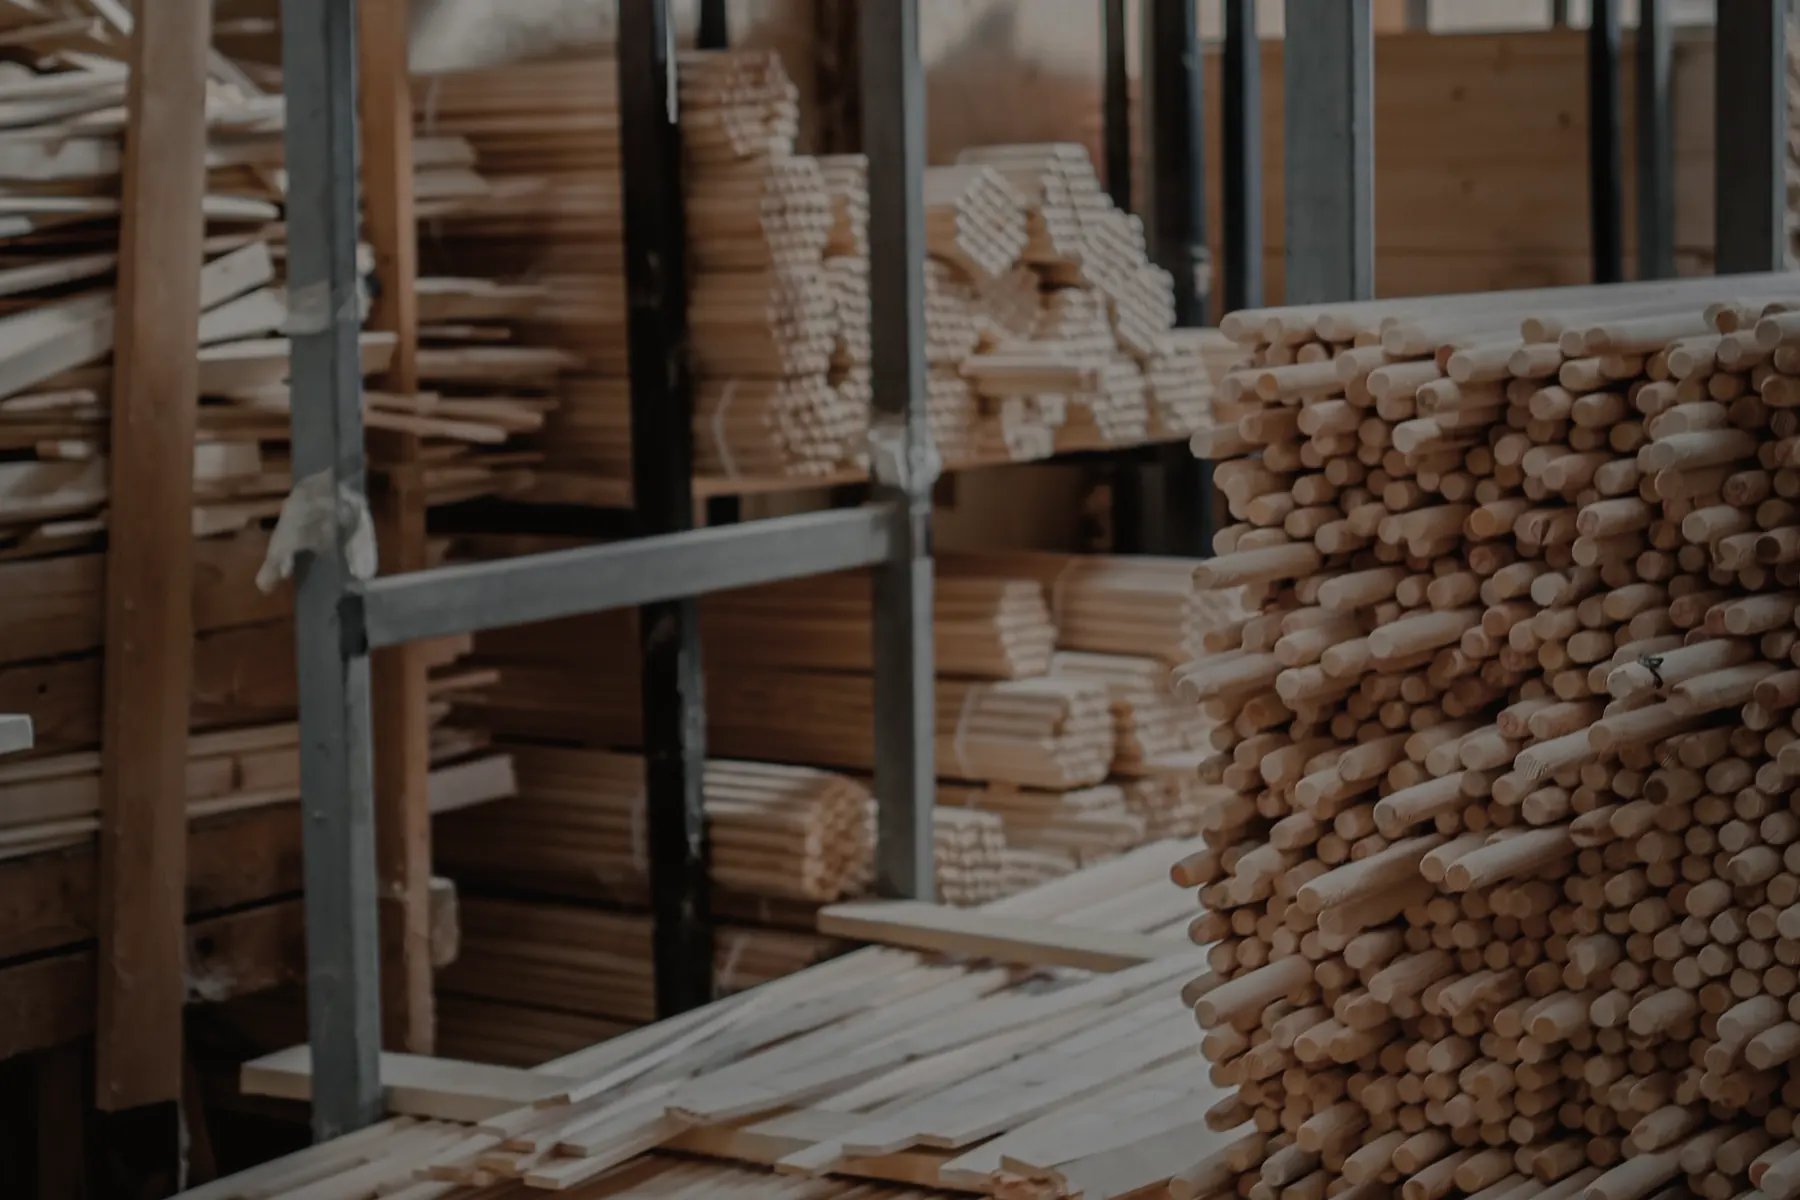
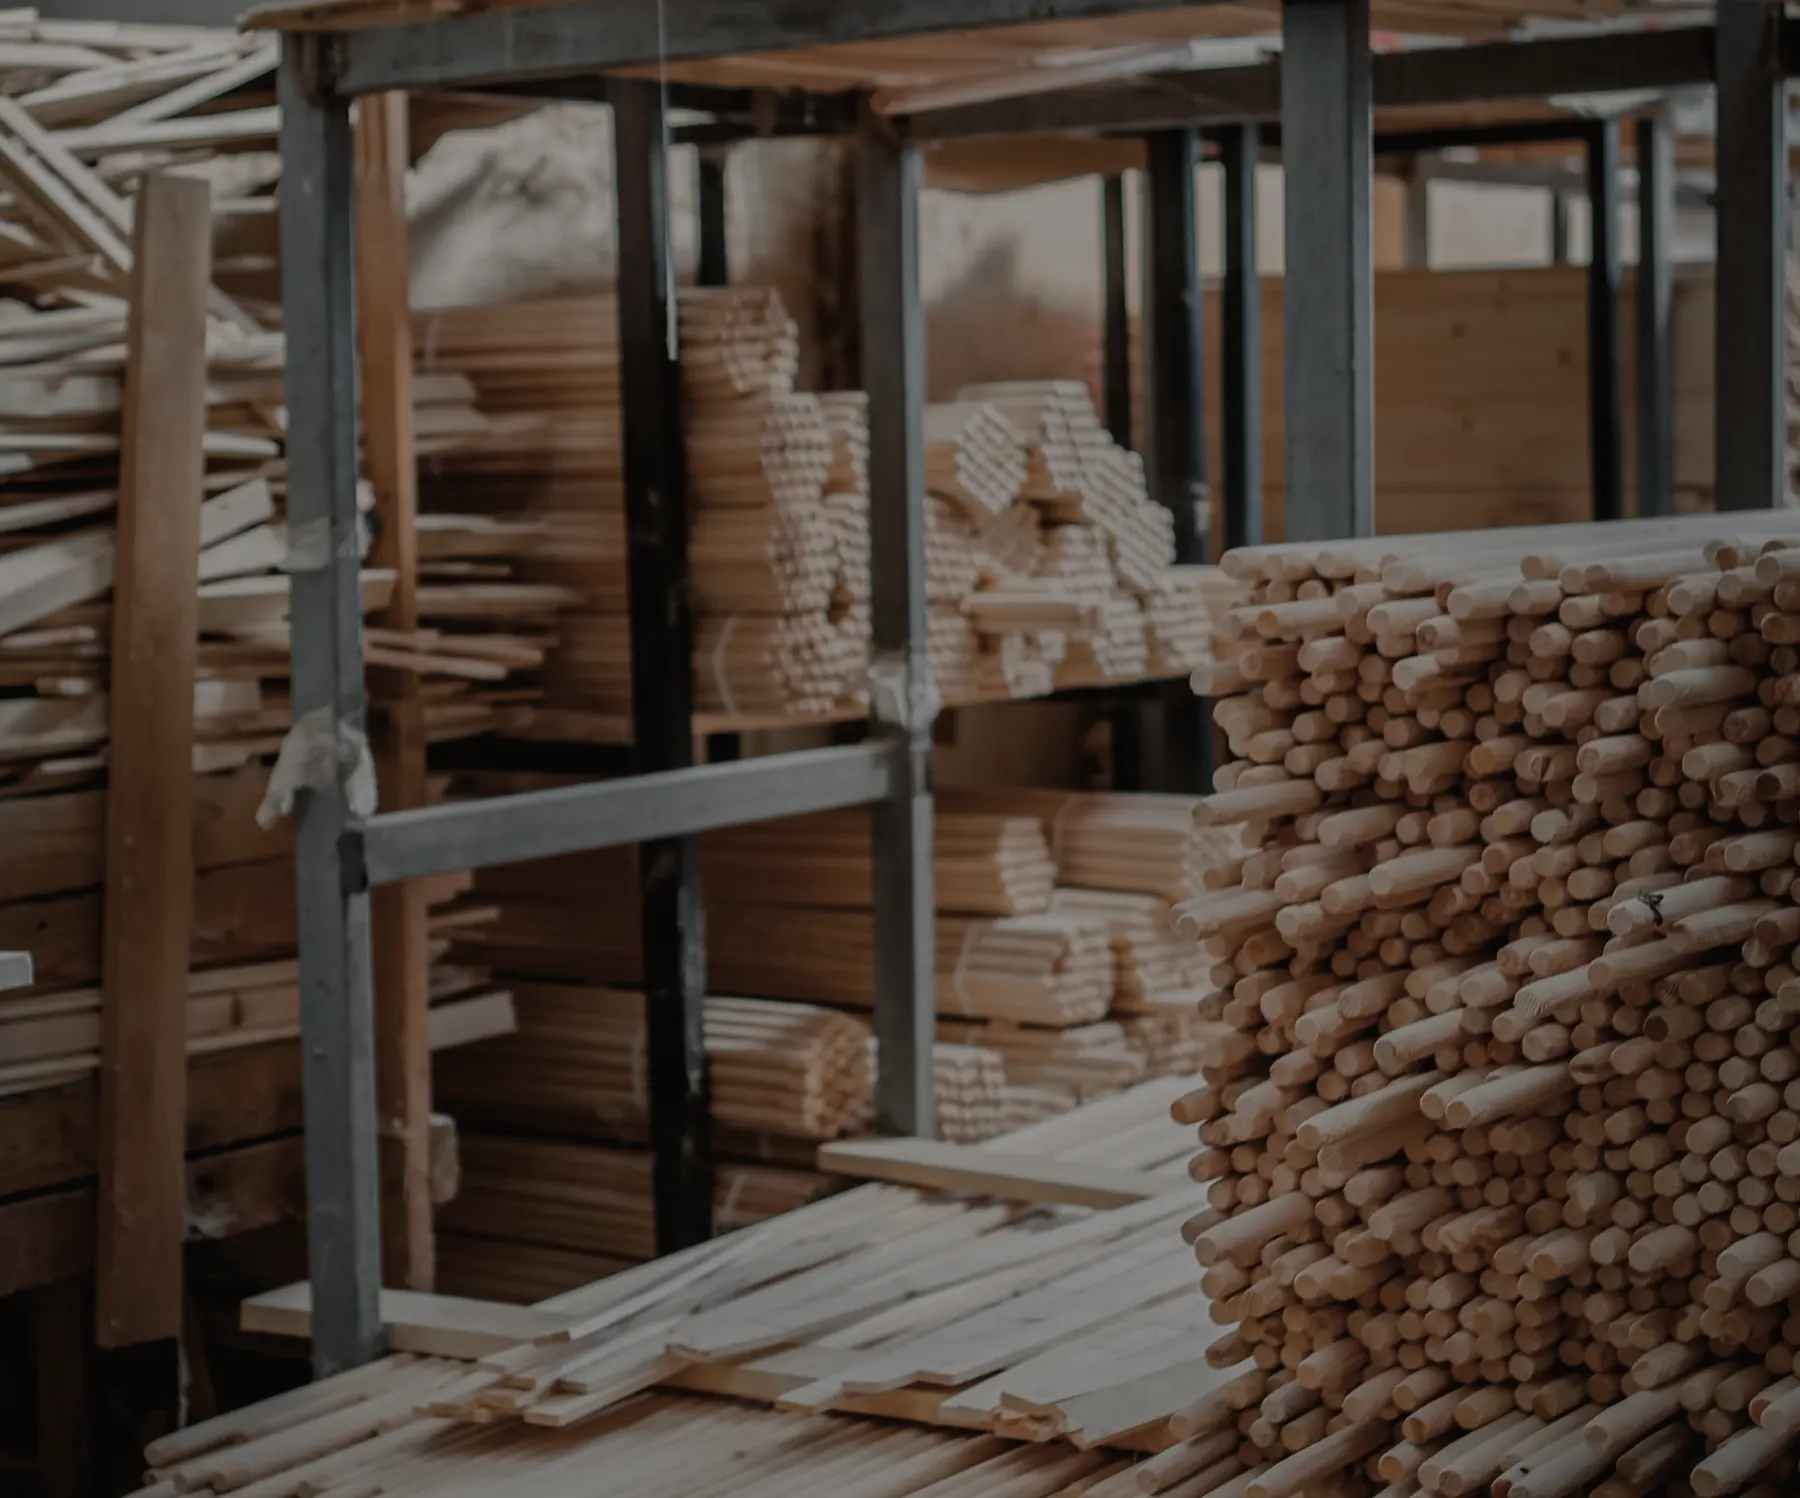
fix: montrer le contenu des photos plutot que leur centre
Chaque photo etait recadree deux fois : une fois dans le fichier au build,
une seconde par object-fit sur une bande plus large que le fichier. La
seconde rognait jusqu'a la moitie du cadre sans que rien ne le signale.

Le cadre prend desormais le rapport du fichier, les recadrages de build sont
elargis (jusqu'a 58 % de la source contre 38 %), et les photos passent en
demi-cellule pour qu'un champ plus large ne donne pas une image geante.
L'accueil est reordonne pour ne plus enchainer deux bandes photographiques.

diff --git a/app/page.tsx b/app/page.tsx
@@ -15,6 +15,10 @@ const X_FAMILLES = [0.33, 0.83, 0.17, 0.5, 0.83]
 const X_ETAPES = [0.17, 0.5, 0.83, 0.17, 0.5]
 const X_FOURNITURES = [0.17, 0.5, 0.83, 0.17, 0.5, 0.83]
 
+const PLEINE_LARGEUR =
+  '(min-width: 1264px) 1198px, (min-width: 768px) calc(100vw - 66px), calc(100vw - 34px)'
+const DEMI = '(min-width: 1264px) 599px, (min-width: 768px) calc(50vw - 33px), calc(100vw - 34px)'
+
 export const metadata: Metadata = {
   title: 'Bois de Bout — menuiserie et agencement sur mesure',
   description:
@@ -139,21 +143,21 @@ export default function Accueil() {
         <Feuille>
           <EnScene>
             <Panneau numero="PL-03" titre="Report du tracé">
-              <Photo
-                fiche={PHOTOS.leTrace}
-                hauteur="clamp(220px, 40vw, 440px)"
-                sizes="(min-width: 1264px) 1198px, (min-width: 768px) calc(100vw - 66px), calc(100vw - 34px)"
-              />
-              <Calepinage className="md:grid-cols-[1fr_auto]">
-                <Piece x={0.3}>
+              <Calepinage className="md:grid-cols-2">
+                <Piece x={0.25} className="md:flex md:flex-col md:justify-center">
                   <p className="lisible text-[15px] leading-relaxed text-muted">
                     Le tracé grandeur nature reporté sur le panneau. Ce que le plan a fixé en
                     millimètres, le gabarit le rend palpable — et c’est là, pas plus tard, qu’on
                     voit qu’une courbe passe mal ou qu’un jeu manque.
                   </p>
+                  <p className="mt-4 text-[15px] leading-relaxed text-muted">
+                    Les pointes plantées le long du trait tiennent le gabarit pendant qu’on le
+                    suit à la défonceuse. Elles se retirent, le trait reste.
+                  </p>
+                  <Cote className="mt-6" valeur="échelle 1:1" />
                 </Piece>
-                <Piece x={0.85} fond className="md:min-w-[220px]">
-                  <Cote valeur="échelle 1:1" />
+                <Piece x={0.75} fond className="!p-0">
+                  <Photo fiche={PHOTOS.leTrace} className="border-0" sizes={DEMI} />
                 </Piece>
               </Calepinage>
             </Panneau>
@@ -182,7 +186,7 @@ export default function Accueil() {
                     key={etape.numero}
                     x={X_ETAPES[index]}
                     travaillee
-                    className={index === 4 ? 'xl:col-span-2' : ''}
+                    className={index === 4 ? 'xl:col-span-3' : ''}
                   >
                     <div className="flex items-baseline gap-3">
                       <span className="font-titre text-[26px] leading-none text-chene">
@@ -196,58 +200,30 @@ export default function Accueil() {
                     </p>
                   </Piece>
                 ))}
-                {/* Place explicitement en troisieme colonne pour que l'ordre de
-                    lecture reste 01 a 05, la photo apres. */}
-                <Piece
-                  x={0.85}
-                  fond
-                  className="!p-0 xl:col-start-3 xl:row-start-1 xl:row-span-2"
-                >
-                  <Photo
-                    fiche={PHOTOS.laSurface}
-                    hauteur="100%"
-                    className="h-full min-h-[220px] border-0"
-                    sizes="(min-width: 1264px) 399px, (min-width: 768px) calc(50vw - 33px), calc(100vw - 34px)"
-                  />
-                </Piece>
               </Calepinage>
-            </Panneau>
-          </EnScene>
-        </Feuille>
-      </section>
-
-      {/* ------------------------------------------------- PL-05 le débit */}
-      <section className="mt-[var(--section-y)]">
-        <Feuille>
-          <EnScene>
-            <Panneau numero="PL-05" titre="Débit dans le panneau">
+              <Photo fiche={PHOTOS.laSurface} sizes={PLEINE_LARGEUR} />
               <Calepinage className="md:grid-cols-[auto_1fr]">
                 <Piece x={0.15} fond className="md:min-w-[240px]">
-                  <Cote valeur="perte 6,4 %" />
+                  <Cote valeur="temps 04" />
                 </Piece>
                 <Piece x={0.7}>
                   <p className="lisible text-[15px] leading-relaxed text-muted">
-                    Le calepinage décide de ce que coûte un panneau. Les pièces y sont rangées
-                    comme les blocs de cette page : jointives, de tailles inégales, orientées dans
-                    le sens du fil quand le fil compte.
+                    La finition, deux ans après. L’huile-cire se répare à l’endroit où elle est
+                    marquée ; un vernis, lui, se refait en entier. C’est ce qui décide de la
+                    finition d’un plan de travail, pas son aspect le jour de la pose.
                   </p>
                 </Piece>
               </Calepinage>
-              <Photo
-                fiche={PHOTOS.leDebit}
-                hauteur="clamp(220px, 40vw, 440px)"
-                sizes="(min-width: 1264px) 1198px, (min-width: 768px) calc(100vw - 66px), calc(100vw - 34px)"
-              />
             </Panneau>
           </EnScene>
         </Feuille>
       </section>
 
-      {/* ----------------------------------------------- PL-06 fournitures */}
+      {/* ----------------------------------------------- PL-05 fournitures */}
       <section className="mt-[var(--section-y)]">
         <Feuille>
           <EnScene>
-            <Coupe numero="PL-06" titre="Nomenclature de fournitures">
+            <Coupe numero="PL-05" titre="Nomenclature de fournitures">
               <Calepinage cote={1}>
                 <Piece x={0.25}>
                   <h2 className="titre titre-section">Ce qu’il y a dedans</h2>
@@ -275,6 +251,33 @@ export default function Accueil() {
                 ))}
               </Calepinage>
             </Coupe>
+          </EnScene>
+        </Feuille>
+      </section>
+
+      {/* ------------------------------------------------- PL-06 le débit */}
+      <section className="mt-[var(--section-y)]">
+        <Feuille>
+          <EnScene>
+            <Panneau numero="PL-06" titre="Débit dans le panneau">
+              <Calepinage className="md:grid-cols-2">
+                <Piece x={0.25} fond className="!p-0 md:order-2">
+                  <Photo fiche={PHOTOS.leDebit} className="border-0" sizes={DEMI} />
+                </Piece>
+                <Piece x={0.75} className="md:flex md:flex-col md:justify-center">
+                  <p className="lisible text-[15px] leading-relaxed text-muted">
+                    Le calepinage décide de ce que coûte un panneau. Les pièces y sont rangées
+                    comme les blocs de cette page : jointives, de tailles inégales, orientées dans
+                    le sens du fil quand le fil compte.
+                  </p>
+                  <p className="mt-4 text-[15px] leading-relaxed text-muted">
+                    Ce qui sort du panneau ne revient pas dedans : une chute de 40 mm ne fait ni
+                    une tablette ni un chant. La perte se décide au plan, pas à la machine.
+                  </p>
+                  <Cote className="mt-6" valeur="perte 6,4 %" />
+                </Piece>
+              </Calepinage>
+            </Panneau>
           </EnScene>
         </Feuille>
       </section>

diff --git a/app/essences/page.tsx b/app/essences/page.tsx
@@ -22,7 +22,7 @@ export default function Essences() {
         <Feuille>
           <Panneau numero="PL-20" titre="Feuille d’échantillons">
             <Calepinage className="lg:grid-cols-[1fr_1fr]">
-              <Piece className="!py-9 md:!py-14" x={0.25}>
+              <Piece className="!py-9 md:!py-14 md:flex md:flex-col md:justify-center" x={0.25}>
                 <p className="surtitre">Planche 20</p>
                 <h1 className="titre titre-plan mt-4">Essences</h1>
                 <p className="lisible mt-5 text-[16px] leading-relaxed text-muted md:text-[18px]">
@@ -34,7 +34,6 @@ export default function Essences() {
               <Piece x={0.75} fond className="!p-0">
                 <Photo
                   fiche={PHOTOS.avivesEmpiles}
-                  hauteur="clamp(220px, 34vw, 420px)"
                   className="border-0"
                   sizes="(min-width: 1264px) 599px, (min-width: 1024px) 50vw, (min-width: 768px) calc(100vw - 66px), calc(100vw - 34px)"
                 />
@@ -142,21 +141,24 @@ export default function Essences() {
         <Feuille>
           <EnScene>
             <Panneau numero="PL-23" titre="Stock">
-              <Calepinage className="md:grid-cols-[auto_1fr]">
-                <Piece x={0.15} fond className="md:min-w-[240px]">
+              <Calepinage className="md:grid-cols-2">
+                <Piece x={0.25} className="md:flex md:flex-col md:justify-center">
                   <Cote valeur="stock atelier" />
-                  <p className="mt-4 text-[14px] leading-relaxed text-muted">
+                  <p className="mt-5 text-[15px] leading-relaxed text-muted">
                     Tourillons, tasseaux et avivés sèchent à l’atelier avant d’être débités. Un
                     bois qui arrive le matin et passe à la machine l’après-midi travaille ensuite
-                    dans l’ouvrage.
+                    dans l’ouvrage : il faut qu’il ait fini de bouger avant, pas après.
+                  </p>
+                  <p className="mt-4 text-[15px] leading-relaxed text-muted">
+                    Le stock est rangé par essence et par épaisseur, sur chant, avec des baguettes
+                    entre les lits pour que l’air passe.
                   </p>
                 </Piece>
-                <Piece x={0.7} fond className="!p-0">
+                <Piece x={0.75} fond className="!p-0">
                   <Photo
                     fiche={PHOTOS.stockDebite}
-                    hauteur="clamp(220px, 36vw, 420px)"
                     className="border-0"
-                    sizes="(min-width: 1264px) 958px, (min-width: 768px) calc(100vw - 306px), calc(100vw - 34px)"
+                    sizes="(min-width: 1264px) 599px, (min-width: 768px) calc(50vw - 33px), calc(100vw - 34px)"
                   />
                 </Piece>
               </Calepinage>

diff --git a/components/Photo.tsx b/components/Photo.tsx
@@ -5,22 +5,26 @@ import type { Photo as Fiche } from '@/lib/photos'
 // echouer tout bloc de texte dont la boite intersecte celle d'une photo. Une
 // photo n'a donc jamais de voile de protection ni de bande cuite — le
 // traitement de palette est deja dans le fichier.
+//
+// Le cadre prend le rapport du FICHIER : sans ca, `object-fit: cover` recadre
+// une seconde fois par-dessus le recadrage du build, et il en rogne jusqu'a la
+// moitie. Le sujet devient illisible sans que rien ne le signale.
 export default function Photo({
   fiche,
   sizes,
   priority = false,
-  hauteur,
   className = '',
 }: {
   fiche: Fiche
   sizes: string
   priority?: boolean
-  /** Hauteur de cadre en CSS ; l'image y est recadree par object-fit. */
-  hauteur: string
   className?: string
 }) {
   return (
-    <div className={`plaque-photo ${className}`} style={{ height: hauteur }}>
+    <div
+      className={`plaque-photo ${className}`}
+      style={{ aspectRatio: `${fiche.largeur} / ${fiche.hauteur}` }}
+    >
       <Image
         src={fiche.src}
         alt={fiche.alt}

diff --git a/lib/photos.ts b/lib/photos.ts
@@ -16,13 +16,13 @@ export const PHOTOS = {
   leTrace: {
     src: '/images/le-trace.webp',
     largeur: 3648,
-    hauteur: 2100,
+    hauteur: 3200,
     alt: 'Gabarits tracés au crayon sur des panneaux, des pointes de repérage plantées le long du tracé.',
   },
   leDebit: {
     src: '/images/le-debit.webp',
     largeur: 3648,
-    hauteur: 2050,
+    hauteur: 3000,
     alt: "Une pièce se dégage du panneau sous l'outil, la sciure de coupe reste le long du trait.",
   },
   laSurface: {
@@ -34,13 +34,13 @@ export const PHOTOS = {
   avivesEmpiles: {
     src: '/images/avives-empiles.webp',
     largeur: 3648,
-    hauteur: 2432,
+    hauteur: 3000,
     alt: 'Avivés empilés sur chant, nœuds et fil visibles sur les tranches rabotées.',
   },
   stockDebite: {
     src: '/images/stock-debite.webp',
     largeur: 3040,
-    hauteur: 2027,
+    hauteur: 2530,
     alt: 'Stock débité rangé sur rack : tourillons et tasseaux vus par le bout.',
   },
 } satisfies Record<string, Photo>

diff --git a/app/agencements/page.tsx b/app/agencements/page.tsx
@@ -56,11 +56,10 @@ export default function Agencements() {
             <Panneau numero="PL-10b" titre="Finition posée">
               <Photo
                 fiche={PHOTOS.laSurface}
-                hauteur="clamp(200px, 32vw, 360px)"
                 sizes="(min-width: 1264px) 1198px, (min-width: 768px) calc(100vw - 66px), calc(100vw - 34px)"
               />
               <Calepinage>
-                <Piece x={0.4}>
+                <Piece x={0.4} className="md:flex md:flex-col md:justify-center">
                   <p className="lisible text-[15px] leading-relaxed text-muted">
                     Un plan de travail en chêne massif de 40 mm, deux ans après la pose. La
                     finition huile-cire se répare à l’endroit où elle est marquée ; un vernis, lui,

diff --git a/CREDITS.md b/CREDITS.md
@@ -12,7 +12,7 @@ Chacune est recadree et retraitee au build ; le binaire distant n est jamais ser
 
 - source : https://www.pexels.com/photo/10126390/
 - fichier d origine : https://images.pexels.com/photos/10126390/pexels-photo-10126390.jpeg
-- recadrage : 3648x2100 a partir de (0, 2200)
+- recadrage : 3648x3200 a partir de (0, 1500)
 - sujet : Gabarits traces au crayon sur des panneaux, pointes de reperage plantees le long du trace.
 - Ecriture manuscrite verifiee au zoom : hors focale, illisible, aucun nom d'entreprise ni de client.
 
@@ -20,7 +20,7 @@ Chacune est recadree et retraitee au build ; le binaire distant n est jamais ser
 
 - source : https://www.pexels.com/photo/10119308/
 - fichier d origine : https://images.pexels.com/photos/10119308/pexels-photo-10119308.jpeg
-- recadrage : 3648x2050 a partir de (0, 3050)
+- recadrage : 3648x3000 a partir de (0, 2450)
 - sujet : Des pieces sortent du panneau, sciure de coupe autour des traits.
 - Recadree sous la broche : sa plaque signaletique porte une marque et un marquage CE lisibles. Le point sombre sur la piece est une vis de bridage, pas un marquage.
 
@@ -36,7 +36,7 @@ Chacune est recadree et retraitee au build ; le binaire distant n est jamais ser
 
 - source : https://www.pexels.com/photo/8817831/
 - fichier d origine : https://images.pexels.com/photos/8817831/pexels-photo-8817831.jpeg
-- recadrage : 3648x2432 a partir de (0, 1400)
+- recadrage : 3648x3000 a partir de (0, 1100)
 - sujet : Avives empiles sur chant, noeuds et fil visibles sur les tranches rabotees.
 - Aucun recadrage necessaire hors mise au format paysage.
 
@@ -44,7 +44,7 @@ Chacune est recadree et retraitee au build ; le binaire distant n est jamais ser
 
 - source : https://www.pexels.com/photo/18420594/
 - fichier d origine : https://images.pexels.com/photos/18420594/pexels-photo-18420594.jpeg
-- recadrage : 3040x2027 a partir de (0, 1900)
+- recadrage : 3040x2530 a partir de (0, 1500)
 - sujet : Stock debite : tourillons et tasseaux ranges sur rack, bois de bout en masse.
 - Recadree pour ecarter la charpente metallique du plafond et les luminaires.
 
